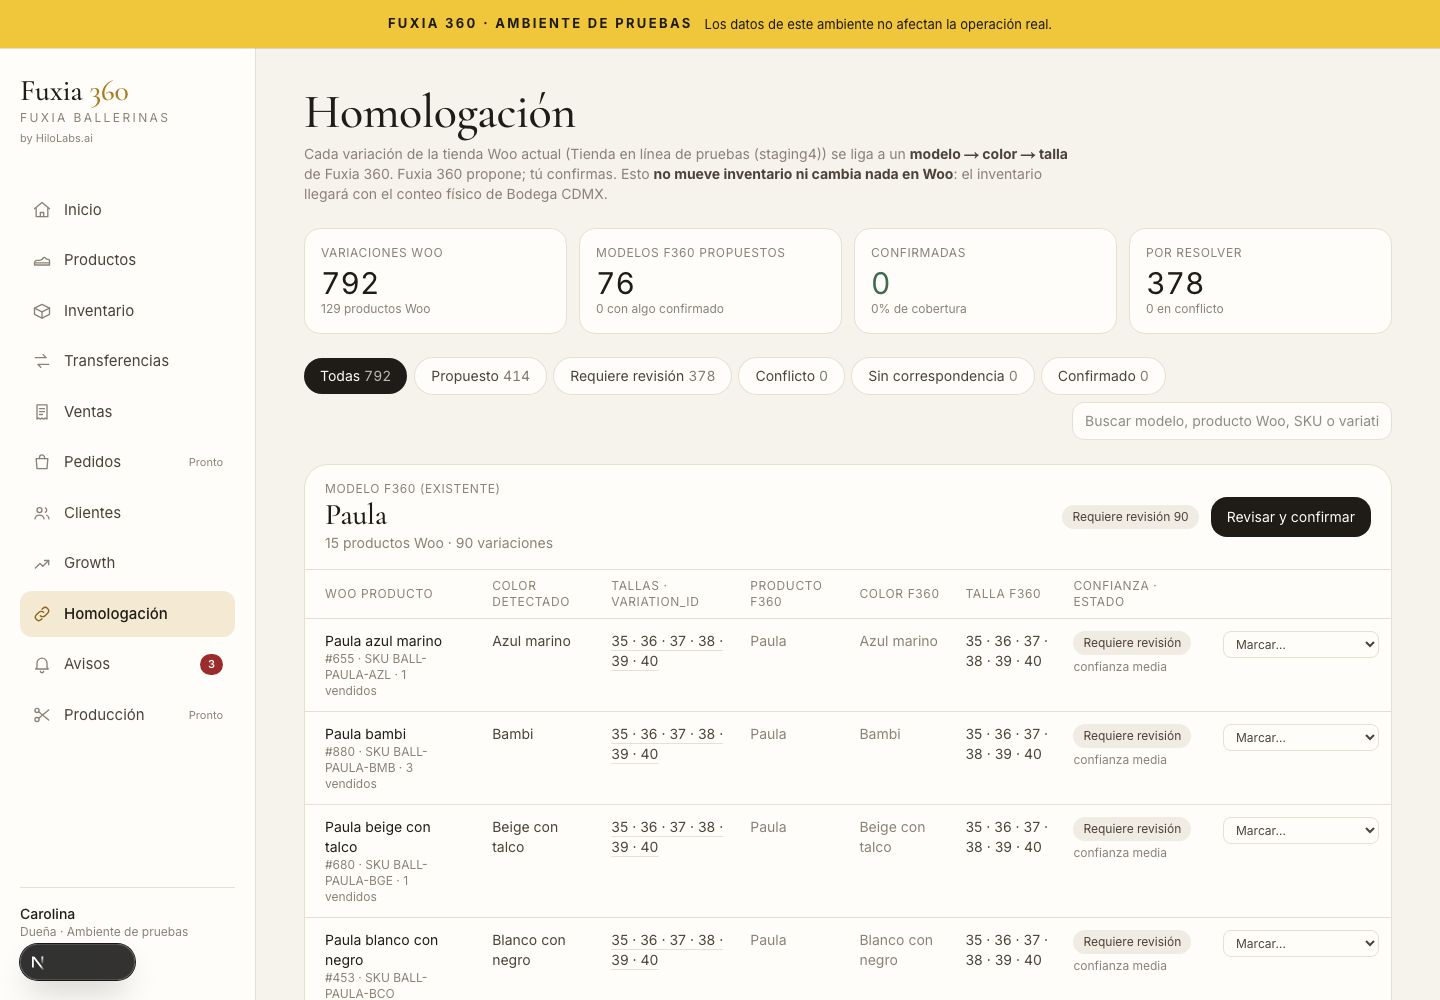
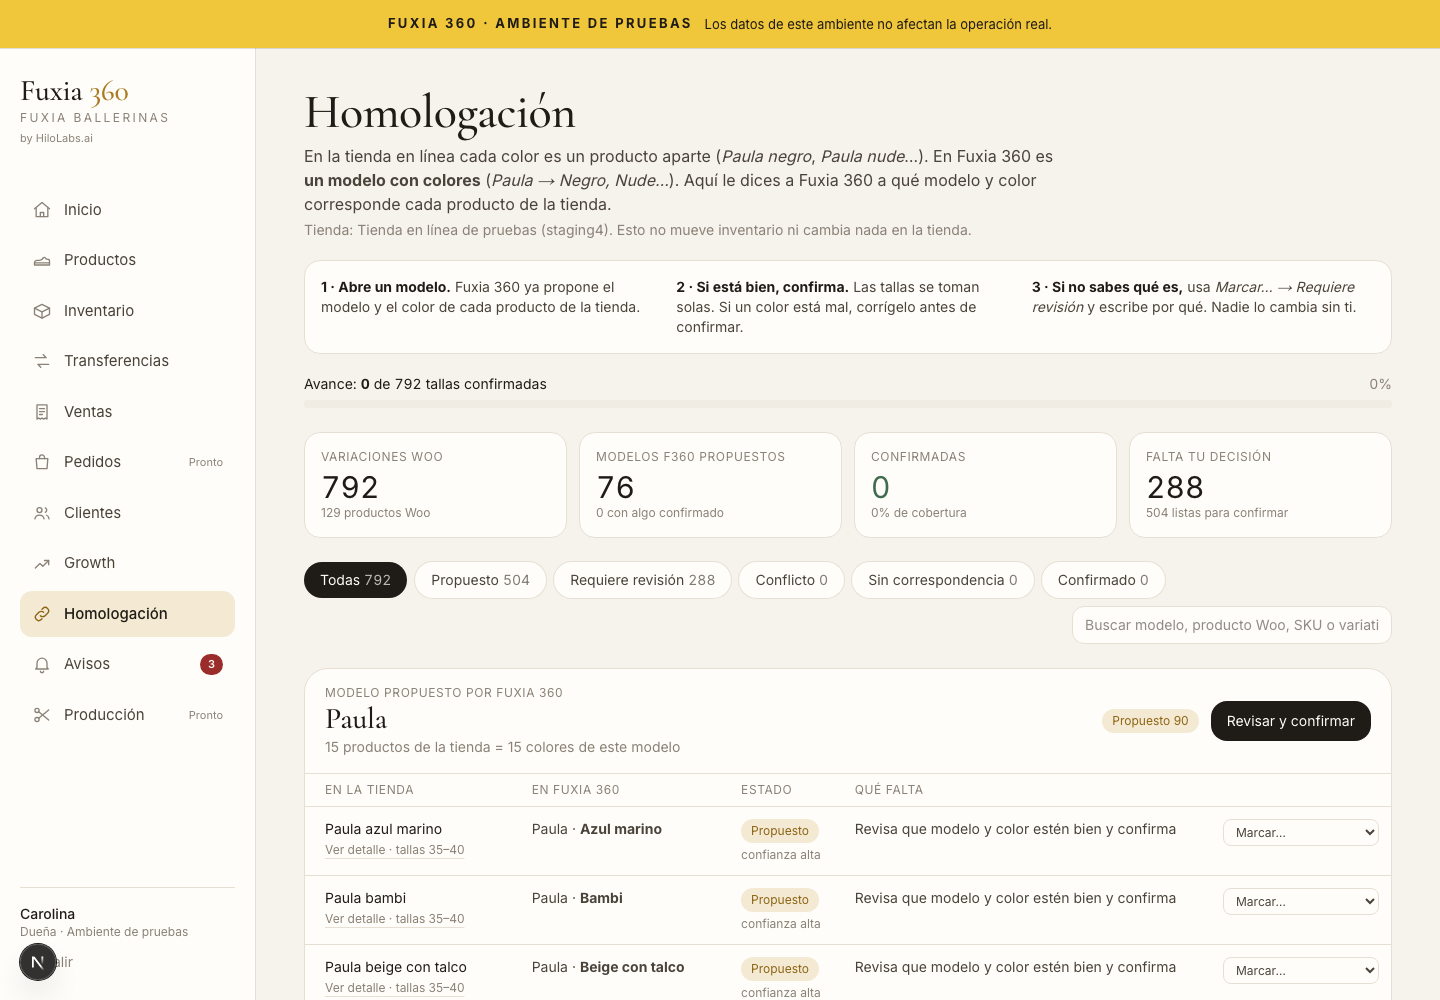
Fuxia 360: D2 homologation screen in plain language; staging test products renamed Demo · …
- Homologación: what it is + 3 steps, progress bar, ready-to-confirm models first, columns
  En la tienda | En Fuxia 360 | Estado | Qué falta; sizes / variation_id / F360 SKU under Ver detalle
- staging only: test products Paula, Paula cafe gamuza, Sueco cucarron azul, Suede Loafers renamed Demo · …
  (codes DEMO-…), Track C tests updated; proposal regenerated: 504 proposed, 288 needs review, 0 conflicts
- DB suite 475/475, e2e read-only PASS

diff --git a/admin-web/src/app/(app)/homologacion/HomologationClient.tsx b/admin-web/src/app/(app)/homologacion/HomologationClient.tsx
@@ -40,7 +40,32 @@ function buildGroups(rows: HomologationRow[]): Group[] {
     g.units.push(u);
     groups.set(g.key, g);
   }
-  return [...groups.values()].sort((a, b) => b.units.length - a.units.length || a.name.localeCompare(b.name));
+  return [...groups.values()].sort((a, b) => priority(a) - priority(b) || b.units.length - a.units.length || a.name.localeCompare(b.name));
+}
+
+// 0 = everything pending is ready to confirm · 1 = partly ready · 2 = conflict · 3 = needs a decision · 4 = done
+function priority(g: Group) {
+  const pending = g.units.flatMap((u) => u.rows).filter((r) => r.status !== 'confirmado');
+  if (!pending.length) return 4;
+  if (pending.every((r) => r.status === 'propuesto')) return 0;
+  if (pending.some((r) => r.status === 'propuesto')) return 1;
+  if (pending.some((r) => r.status === 'conflicto')) return 2;
+  return 3;
+}
+
+// What the person has to do with this Woo product, in plain words.
+function todo(u: Unit): string {
+  const r = u.rows.find((x) => x.status !== 'confirmado') ?? u.rows[0];
+  if (r.status === 'confirmado') return `Listo${r.decided_by_name ? ` · confirmó ${r.decided_by_name}` : ''}`;
+  if (r.status === 'propuesto') return 'Revisa que modelo y color estén bien y confirma';
+  if (r.status === 'conflicto') return 'Otro producto de la tienda quedó con el mismo modelo, color y talla: decide cuál es';
+  if (r.human_locked) return r.note ? `Marcado: ${r.note}` : 'Marcado por una persona';
+  const why = r.proposal_reason ?? '';
+  if (/cualquier color/.test(why)) return 'La tienda vende esta talla en “cualquier color”: solo confírmala si sabes qué color sale';
+  if (/ya existe un modelo/.test(why)) return 'Ya hay un modelo con ese nombre en Fuxia 360: decide si es el mismo';
+  if (!r.proposed_color) return 'No sabemos el color: escríbelo al confirmar, o márcalo si no estás segura';
+  if (/a mitad del nombre/.test(why)) return 'El color estaba a mitad del nombre: revisa modelo y color';
+  return 'Revisa modelo y color';
 }
 
 export function HomologationClient({ data }: { data: Homologation }) {
@@ -60,16 +85,28 @@ export function HomologationClient({ data }: { data: Homologation }) {
   return (
     <div>
       <h1 className="font-display text-5xl text-ink">Homologación</h1>
-      <p className="mt-2 max-w-3xl text-sm text-muted">
-        Cada variación de la tienda Woo actual ({data.target.name}) se liga a un <b className="text-ink-2">modelo → color → talla</b> de Fuxia 360.
-        Fuxia 360 propone; tú confirmas. Esto <b className="text-ink-2">no mueve inventario ni cambia nada en Woo</b>: el inventario llegará con el conteo físico de Bodega CDMX.
+      <p className="mt-2 max-w-3xl text-ink-2">
+        En la tienda en línea cada color es un producto aparte (<i>Paula negro</i>, <i>Paula nude</i>…). En Fuxia 360 es <b>un modelo con colores</b> (<i>Paula → Negro, Nude…</i>).
+        Aquí le dices a Fuxia 360 a qué modelo y color corresponde cada producto de la tienda.
       </p>
+      <p className="mt-1 text-sm text-muted">Tienda: {data.target.name}. Esto no mueve inventario ni cambia nada en la tienda.</p>
+
+      <ol className="mt-5 grid gap-3 rounded-2xl border border-line bg-surface p-4 text-sm text-ink-2 md:grid-cols-3" data-testid="how-to">
+        <li><b className="text-ink">1 · Abre un modelo.</b> Fuxia 360 ya propone el modelo y el color de cada producto de la tienda.</li>
+        <li><b className="text-ink">2 · Si está bien, confirma.</b> Las tallas se toman solas. Si un color está mal, corrígelo antes de confirmar.</li>
+        <li><b className="text-ink">3 · Si no sabes qué es,</b> usa <i>Marcar… → Requiere revisión</i> y escribe por qué. Nadie lo cambia sin ti.</li>
+      </ol>
+
+      <div className="mt-5" data-testid="progress">
+        <div className="flex items-baseline justify-between text-sm"><span className="text-ink">Avance: <b className="tabular">{s.confirmado}</b> de <span className="tabular">{s.variations}</span> tallas confirmadas</span><span className="tabular text-muted">{s.coverage_pct}%</span></div>
+        <div className="mt-1.5 h-2 overflow-hidden rounded-full bg-surface-2"><div className="h-full rounded-full bg-success" style={{ width: `${s.coverage_pct}%` }} /></div>
+      </div>
 
       <div className="mt-6 grid grid-cols-2 gap-3 sm:grid-cols-4" data-testid="homologation-summary">
         <Stat label="Variaciones Woo" value={s.variations} sub={`${s.woo_products} productos Woo`} />
         <Stat label="Modelos F360 propuestos" value={s.models_proposed} sub={`${s.models_confirmed} con algo confirmado`} />
         <Stat label="Confirmadas" value={s.confirmado} sub={`${s.coverage_pct}% de cobertura`} tone="text-success" />
-        <Stat label="Por resolver" value={s.requiere_revision + s.conflicto + s.sin_correspondencia} sub={`${s.conflicto} en conflicto`} tone={s.conflicto ? 'text-danger' : undefined} />
+        <Stat label="Falta tu decisión" value={s.requiere_revision + s.conflicto + s.sin_correspondencia} sub={`${s.propuesto} listas para confirmar`} tone={s.conflicto ? 'text-danger' : undefined} />
       </div>
 
       <div className="mt-6 flex flex-wrap items-center gap-2">
@@ -167,13 +204,13 @@ function GroupCard({ g, data, onDone }: { g: Group; data: Homologation; onDone: 
     <section className="rounded-3xl border border-line bg-surface" data-testid={`group-${g.key}`}>
       <header className="flex flex-wrap items-center gap-3 px-5 py-4">
         <div className="flex-1">
-          <div className="text-xs uppercase tracking-wider text-muted">Modelo F360 {g.proposedProductId ? '(existente)' : 'propuesto'}</div>
+          <div className="text-xs uppercase tracking-wider text-muted">{pendingUnits.length ? 'Modelo propuesto por Fuxia 360' : 'Modelo confirmado'}</div>
           <h2 className="font-display text-3xl text-ink">{g.name}</h2>
-          <div className="text-sm text-muted">{g.units.length} {g.units.length === 1 ? 'producto Woo' : 'productos Woo'} · {g.units.reduce((a, u) => a + u.rows.length, 0)} variaciones</div>
+          <div className="text-sm text-muted">{g.units.length} {g.units.length === 1 ? 'producto de la tienda' : 'productos de la tienda'} = {g.units.length} {g.units.length === 1 ? 'color' : 'colores'} de este modelo</div>
         </div>
         <div className="flex flex-wrap gap-1.5">{Object.entries(counts).map(([k, n]) => <span key={k} className={`rounded-full px-2.5 py-1 text-xs ${TONE[k as HomologationStatus]}`}>{LABEL[k as HomologationStatus]} {n}</span>)}</div>
         {pendingUnits.length > 0 && (
-          <button type="button" onClick={openPanel} className="rounded-2xl bg-ink px-4 py-2.5 text-sm text-surface">{open ? 'Cerrar' : 'Revisar y confirmar'}</button>
+          <button type="button" onClick={openPanel} className="rounded-2xl bg-ink px-4 py-2.5 text-sm text-surface">{open ? 'Cerrar' : priority(g) === 0 ? 'Revisar y confirmar' : 'Decidir'}</button>
         )}
       </header>
 
@@ -227,12 +264,11 @@ function GroupCard({ g, data, onDone }: { g: Group; data: Homologation; onDone: 
       )}
 
       <div className="overflow-x-auto border-t border-line">
-        <table className="w-full min-w-[860px] text-sm">
+        <table className="w-full min-w-[760px] text-sm">
           <thead className="text-left text-xs uppercase tracking-wider text-muted">
             <tr className="border-b border-line">
-              <th className="px-5 py-2 font-normal">Woo producto</th><th className="px-3 py-2 font-normal">Color detectado</th><th className="px-3 py-2 font-normal">Tallas · variation_id</th>
-              <th className="px-3 py-2 font-normal">Producto F360</th><th className="px-3 py-2 font-normal">Color F360</th><th className="px-3 py-2 font-normal">Talla F360</th>
-              <th className="px-3 py-2 font-normal">Confianza · estado</th><th className="px-3 py-2" />
+              <th className="px-5 py-2 font-normal">En la tienda</th><th className="px-3 py-2 font-normal">En Fuxia 360</th>
+              <th className="px-3 py-2 font-normal">Estado</th><th className="px-3 py-2 font-normal">Qué falta</th><th className="px-3 py-2" />
             </tr>
           </thead>
           <tbody>
@@ -242,14 +278,13 @@ function GroupCard({ g, data, onDone }: { g: Group; data: Homologation; onDone: 
               return (
                 <Fragment key={u.key}>
                   <tr className="border-b border-line align-top" data-testid={`unit-${u.wooProductId}${u.wooColor ? `-${u.wooColor}` : ''}`}>
-                    <td className="px-5 py-3"><div className="text-ink">{u.wooProductName}</div><div className="text-xs text-muted">#{u.wooProductId}{u.sku ? ` · SKU ${u.sku}` : ' · sin SKU'}{u.sold ? ` · ${u.sold} vendidos` : ''}</div></td>
-                    <td className="px-3 py-3 text-ink-2">{u.detectedColor ?? <span className="text-danger">no determinado</span>}</td>
-                    <td className="px-3 py-3"><button type="button" onClick={() => setExpanded(expanded === u.key ? null : u.key)} className="text-left text-ink-2 underline decoration-line underline-offset-4">
-                      {u.rows.map((r) => r.woo_size).join(' · ')}</button></td>
-                    <td className="px-3 py-3 text-ink">{c?.product_name ?? <span className="text-muted">{u.rows[0].proposed_model ?? '—'}</span>}</td>
-                    <td className="px-3 py-3 text-ink">{c?.color ?? <span className="text-muted">{u.rows[0].proposed_color ?? '—'}</span>}</td>
-                    <td className="px-3 py-3 text-ink-2">{u.rows.map((r) => r.confirmed?.size ?? r.proposed_size ?? '—').join(' · ')}</td>
+                    <td className="px-5 py-3"><div className="text-ink">{u.wooProductName}{u.wooColor ? <span className="text-muted"> · {u.wooColor}</span> : null}</div>
+                      <button type="button" onClick={() => setExpanded(expanded === u.key ? null : u.key)} className="mt-0.5 text-xs text-muted underline decoration-line underline-offset-4">
+                        {expanded === u.key ? 'Ocultar detalle' : `Ver detalle · tallas ${u.rows[0].woo_size}–${u.rows[u.rows.length - 1].woo_size}`}</button></td>
+                    <td className="px-3 py-3 text-ink">{c ? <>{c.product_name} · <b>{c.color}</b></>
+                      : <span className="text-ink-2">{u.rows[0].proposed_model ?? '—'} · {u.rows[0].proposed_color ? <b>{u.rows[0].proposed_color}</b> : <span className="text-danger">color sin definir</span>}</span>}</td>
                     <td className="px-3 py-3"><div className="flex flex-col items-start gap-1"><Badge status={u.status} />{conf && u.status !== 'confirmado' && <span className="text-xs text-muted">confianza {conf}</span>}</div></td>
+                    <td className="max-w-xs px-3 py-3 text-ink-2">{todo(u)}</td>
                     <td className="px-3 py-3 text-right">
                       {u.rows.some((r) => r.status === 'confirmado')
                         ? <button type="button" onClick={() => { setAction({ unit: u, kind: 'reopen' }); setReason(''); }} className="text-xs text-muted underline">Reabrir</button>
@@ -260,7 +295,7 @@ function GroupCard({ g, data, onDone }: { g: Group; data: Homologation; onDone: 
                     </td>
                   </tr>
                   {action?.unit.key === u.key && (
-                    <tr className="border-b border-line bg-bg/60"><td colSpan={8} className="px-5 py-3">
+                    <tr className="border-b border-line bg-bg/60"><td colSpan={5} className="px-5 py-3">
                       <div className="flex flex-wrap items-center gap-2">
                         <span className="text-sm text-ink">{action.kind === 'reopen' ? 'Reabrir: ¿por qué?' : `${LABEL[action.kind]}: motivo`}</span>
                         <input aria-label="Motivo" value={reason} onChange={(e) => setReason(e.target.value)} className="min-w-64 flex-1 rounded-lg border border-line bg-surface px-3 py-2 text-sm outline-none focus:border-gold" />
@@ -270,18 +305,20 @@ function GroupCard({ g, data, onDone }: { g: Group; data: Homologation; onDone: 
                     </td></tr>
                   )}
                   {expanded === u.key && (
-                    <tr className="border-b border-line bg-bg/40"><td colSpan={8} className="px-5 py-3">
+                    <tr className="border-b border-line bg-bg/40"><td colSpan={5} className="px-5 py-3">
                       <table className="w-full text-xs" data-testid={`variations-${u.wooProductId}`}>
-                        <thead className="text-left text-muted"><tr><th className="py-1 font-normal">variation_id</th><th className="font-normal">Talla Woo</th><th className="font-normal">Color Woo</th><th className="font-normal">Vendidos (90 d / total)</th><th className="font-normal">Estado</th><th className="font-normal">Variante F360</th><th className="font-normal">Decidió</th></tr></thead>
+                        <thead className="text-left text-muted"><tr><th className="py-1 font-normal">variation_id (Woo)</th><th className="font-normal">Talla Woo</th><th className="font-normal">Color Woo</th><th className="font-normal">Producto F360</th><th className="font-normal">Color F360</th><th className="font-normal">Talla F360</th><th className="font-normal">Vendidos (90 d / total)</th><th className="font-normal">Estado</th><th className="font-normal">SKU F360</th><th className="font-normal">Decidió</th></tr></thead>
                         <tbody>{u.rows.map((r) => (
                           <tr key={r.woo_variation_id} className="border-t border-line">
-                            <td className="tabular py-1.5">{r.woo_variation_id}</td><td>{r.woo_size}</td><td>{r.woo_color ?? '—'}</td><td className="tabular">{r.sold_90d} / {r.sold_all}</td>
-                            <td><Badge status={r.status} /></td><td>{r.confirmed ? `${r.confirmed.product_name} · ${r.confirmed.color} · ${r.confirmed.size} (${r.confirmed.sku})` : '—'}</td>
+                            <td className="tabular py-1.5">{r.woo_variation_id}</td><td>{r.woo_size}</td><td>{r.woo_color ?? '—'}</td>
+                            <td>{r.confirmed?.product_name ?? r.proposed_model ?? '—'}</td><td>{r.confirmed?.color ?? r.proposed_color ?? '—'}</td><td>{r.confirmed?.size ?? r.proposed_size ?? '—'}</td>
+                            <td className="tabular">{r.sold_90d} / {r.sold_all}</td><td><Badge status={r.status} /></td><td>{r.confirmed?.sku ?? '—'}</td>
                             <td>{r.decided_by_name ? `${r.decided_by_name}${r.note ? ` — ${r.note}` : ''}` : '—'}</td>
                           </tr>))}
                         </tbody>
                       </table>
-                      {u.rows[0].proposal_reason && <p className="mt-2 text-xs text-muted">Propuesta del sistema: {u.rows[0].proposal_reason}</p>}
+                      {u.sku && <p className="mt-2 text-xs text-muted">SKU de la tienda (solo referencia, no se cambia): {u.sku}</p>}
+                      {u.rows[0].proposal_reason && <p className="mt-1 text-xs text-muted">Por qué lo propuso Fuxia 360: {u.rows[0].proposal_reason}</p>}
                     </td></tr>
                   )}
                 </Fragment>

diff --git a/admin-web/e2e/d2-homologacion.spec.ts b/admin-web/e2e/d2-homologacion.spec.ts
@@ -29,10 +29,18 @@ test('D2 · homologación real (woo_staging4): solo lectura', async ({ page }) =
     const summary = page.getByTestId('homologation-summary');
     await expect(summary).toContainText('792');
     await expect(summary).toContainText('129 productos Woo');
+    await expect(page.getByTestId('how-to')).toBeVisible();
     await shot('01-resumen-real', false);
+    const paula = page.getByTestId('group-paula');
+    await expect(paula).toContainText('Propuesto 90');
+    await expect(paula.getByRole('button', { name: 'Revisar y confirmar' })).toBeVisible();
+    await paula.getByRole('button', { name: 'Revisar y confirmar' }).click();
+    await expect(paula.getByTestId('confirm-panel')).toBeVisible();
+    await paula.screenshot({ path: `${SHOTS}/01b-paula-lista-para-confirmar.png` });
+    await paula.getByRole('button', { name: 'Cerrar' }).click();   // look only: no decision is written in the real homologation
     const suecos = page.getByTestId('group-suecos cucarrones');
     await suecos.scrollIntoViewIfNeeded();
-    await suecos.getByRole('button', { name: /35 · 36 · 37 · 38 · 39 · 40/ }).first().click();
+    await suecos.getByRole('button', { name: /Ver detalle/ }).first().click();
     await expect(suecos.getByTestId(/^variations-/).first()).toBeVisible();
     await suecos.screenshot({ path: `${SHOTS}/02-modelo-propuesto-suecos.png` });
     await page.getByTestId('filter-requiere_revision').click();
@@ -56,7 +64,7 @@ test('D2 · práctica: Carolina agrupa productos Woo por color bajo un modelo F3
     await expect(page.getByText(/Demo · homologación/)).toBeVisible();
     await shot('04-practica-antes');
     const g = page.getByTestId('group-cucarron');
-    await g.getByRole('button', { name: 'Revisar y confirmar' }).click();
+    await g.getByRole('button', { name: /Revisar y confirmar|Decidir/ }).click();
     const panel = g.getByTestId('confirm-panel');
     await panel.getByLabel('Nombre del modelo').fill('Demo · Cucarron');
     await expect(panel.getByLabel(/Color F360 de Cucarron nude/)).toHaveValue('Nude');
@@ -70,12 +78,12 @@ test('D2 · práctica: Carolina agrupa productos Woo por color bajo un modelo F3
 
   await test.step('3 · Variaciones "cualquier color": requiere revisión (bloqueadas para cutover)', async () => {
     const g = page.getByTestId('group-mules colectiva');
-    const anyRow = g.getByRole('row').filter({ hasText: 'no determinado' });
+    const anyRow = g.getByRole('row').filter({ hasText: 'color sin definir' });
     await anyRow.getByLabel(/Marcar Mules Colectiva/).selectOption('requiere_revision');
     await g.getByLabel('Motivo').fill('Woo vende "cualquier color": no sé qué color sale. Bloqueada para cutover hasta corregir Woo.');
     await g.getByRole('button', { name: 'Guardar' }).click();
     await expect(page.getByTestId('flash')).toContainText('marcado “Requiere revisión”');
-    await g.getByRole('button', { name: 'Revisar y confirmar' }).click();
+    await g.getByRole('button', { name: /Revisar y confirmar|Decidir/ }).click();
     const panel = g.getByTestId('confirm-panel');
     await panel.getByLabel('Nombre del modelo').fill('Demo · Mules Colectiva');
     await expect(panel.getByLabel(/Incluir Mules Colectiva$/)).not.toBeChecked();   // any-colour unit never preselected
@@ -87,7 +95,7 @@ test('D2 · práctica: Carolina agrupa productos Woo por color bajo un modelo F3
 
   await test.step('4 · Conflicto: dos productos Woo no pueden caer en el mismo modelo + color + talla', async () => {
     const g = page.getByTestId('group-croc');
-    await g.getByRole('button', { name: 'Revisar y confirmar' }).click();
+    await g.getByRole('button', { name: /Revisar y confirmar|Decidir/ }).click();
     const panel = g.getByTestId('confirm-panel');
     await panel.getByLabel('Un modelo F360 que ya existe (agrupar)').check();
     const sel = panel.getByLabel('Modelo existente');

diff --git a/admin-web/e2e/transfers.spec.ts b/admin-web/e2e/transfers.spec.ts
@@ -4,7 +4,7 @@ import { createClient } from '@supabase/supabase-js';
 
 // TRACK C · TRANSFERS — staging acceptance of the web flow with SYNTHETIC fixtures only:
 // locations 'ZZ PRUEBA T Bodega' / 'ZZ PRUEBA T Tienda', lab user C1 as seller 'ZZ PRUEBA Vendedora', and stock of the
-// existing staging test product "Paula" received into the synthetic bodega. Remove everything afterwards with:
+// existing staging test product "Demo · Paula" received into the synthetic bodega. Remove everything afterwards with:
 //   scripts/s00a/run.sh ../f360/transfers_cleanup.mjs
 const OWNER = 'carolina.demo@staging.invalid';
 const OWNER_PW = process.env.STAGING_DEMO_CAROLINA_PASSWORD ?? '';
@@ -53,7 +53,7 @@ test.beforeAll(async () => {
   tienda = (await call<{ id: string }>('f360_create_location', { p_name: 'ZZ PRUEBA T Tienda', p_type: 'store' })).id;
   await call('f360_set_user_role', { p_auth_user_id: s.data.user!.id, p_role: 'seller', p_display_name: 'ZZ PRUEBA Vendedora' });
   await call('f360_set_location_assignment', { p_auth_user_id: s.data.user!.id, p_location_id: tienda, p_active: true });
-  paulaId = (await call<{ id: string; name: string }[]>('f360_list_products', { p_query: 'Paula' })).find((p) => p.name === 'Paula')!.id;
+  paulaId = (await call<{ id: string; name: string }[]>('f360_list_products', { p_query: 'Paula' })).find((p) => p.name === 'Demo · Paula')!.id;
   const c = await camel();
   await call('f360_receive_inventory', { p_idempotency_key: crypto.randomUUID(), p_location_id: bodega,
     p_lines: [{ variant_id: c.variant('35'), quantity: 3 }, { variant_id: c.variant('36'), quantity: 2 }], p_note: 'ZZ PRUEBA transferencias' });

diff --git a/docs/fuxia360/audit/trackd/D2_REPORT.md b/docs/fuxia360/audit/trackd/D2_REPORT.md
@@ -191,3 +191,28 @@ Nota: en las capturas de página completa, el aviso amarillo fijo de "ambiente d
 2. Después, `…000100_….down.sql`.
 
 Los modelos "Demo · …" del canal de práctica son filas de catálogo de staging y se pueden archivar.
+
+## 8 · Actualización 2026-10-02 (aprobada por Mario: "sí" a renombrar y simplificar)
+
+**Productos de prueba de staging renombrados.** "Paula", "Paula cafe gamuza", "Sueco cucarron azul" y "Suede Loafers" ahora son "Demo · …".
+- Su código cambió a `DEMO-…`: los SKUs de prueba pasan a ser `F360-DEMO-…` (solo staging; ninguno estaba publicado ni bloqueado).
+- Así el modelo real "Paula" puede crearse con SKUs `F360-PAULA-…`.
+- Las pruebas de Track C que usaban "Paula" ahora usan "Demo · Paula". Suite completa: **475 de 475 PASS**.
+
+**Propuesta regenerada (sin decisiones humanas que respetar: 0):**
+
+| | Antes | Ahora |
+|---|---|---|
+| Propuesto | 414 | **504** |
+| Requiere revisión | 378 | **288** |
+| Conflicto | 0 | 0 |
+
+Paula (15 productos Woo, 90 variaciones) quedó como *Propuesto*, lista para confirmar en un clic.
+
+**Pantalla simplificada:**
+- Una explicación arriba y los 3 pasos.
+- Una barra de avance.
+- Primero los modelos que se pueden confirmar directamente.
+- Columnas en lenguaje simple: *En la tienda | En Fuxia 360 | Estado | Qué falta*.
+- Tallas, `variation_id`, talla y color F360 y SKU, dentro de "Ver detalle".
+- Capturas nuevas: `d2_screens/01-resumen-real.png` y `01b-paula-lista-para-confirmar.png`. Paula solo se abrió para la captura; no se confirmó nada.
